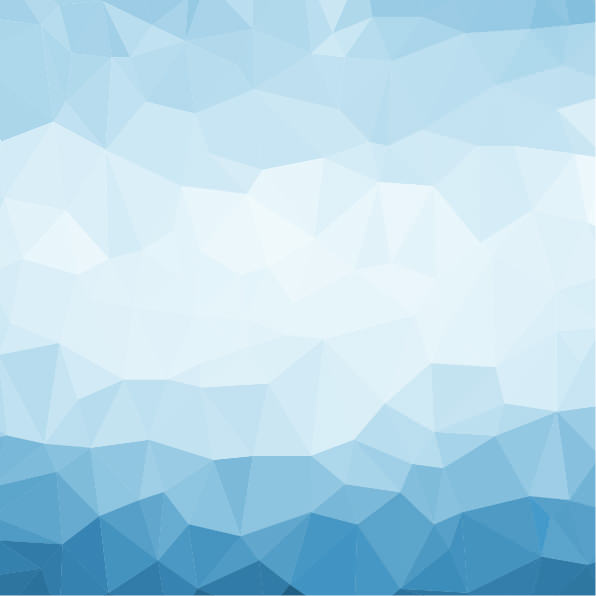
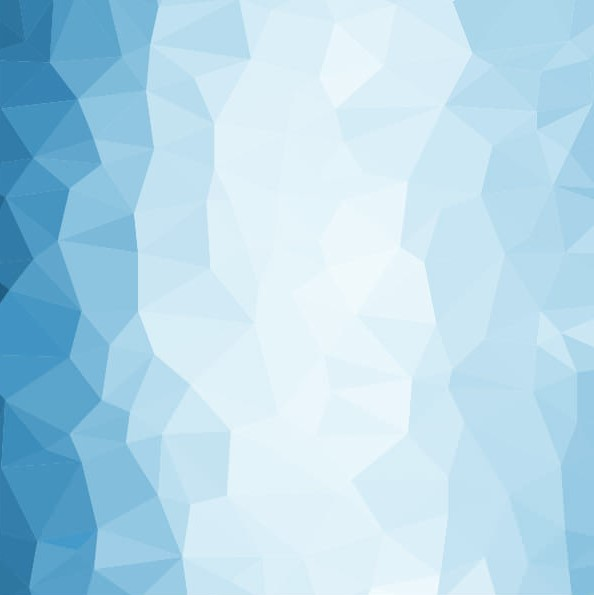
trying to do stuff

diff --git a/public/login.html b/public/login.html
@@ -10,7 +10,7 @@
     <script src="test.js"></script>
 </head>
 
-<body style="background-image: url(./background.png);">
+<body style="background-image: url(./background-2.jpg);">
     <div class="ui one column centered grid" style="margin-top: 100px;">
         <div class="ui card">
             <form class="ui form">
